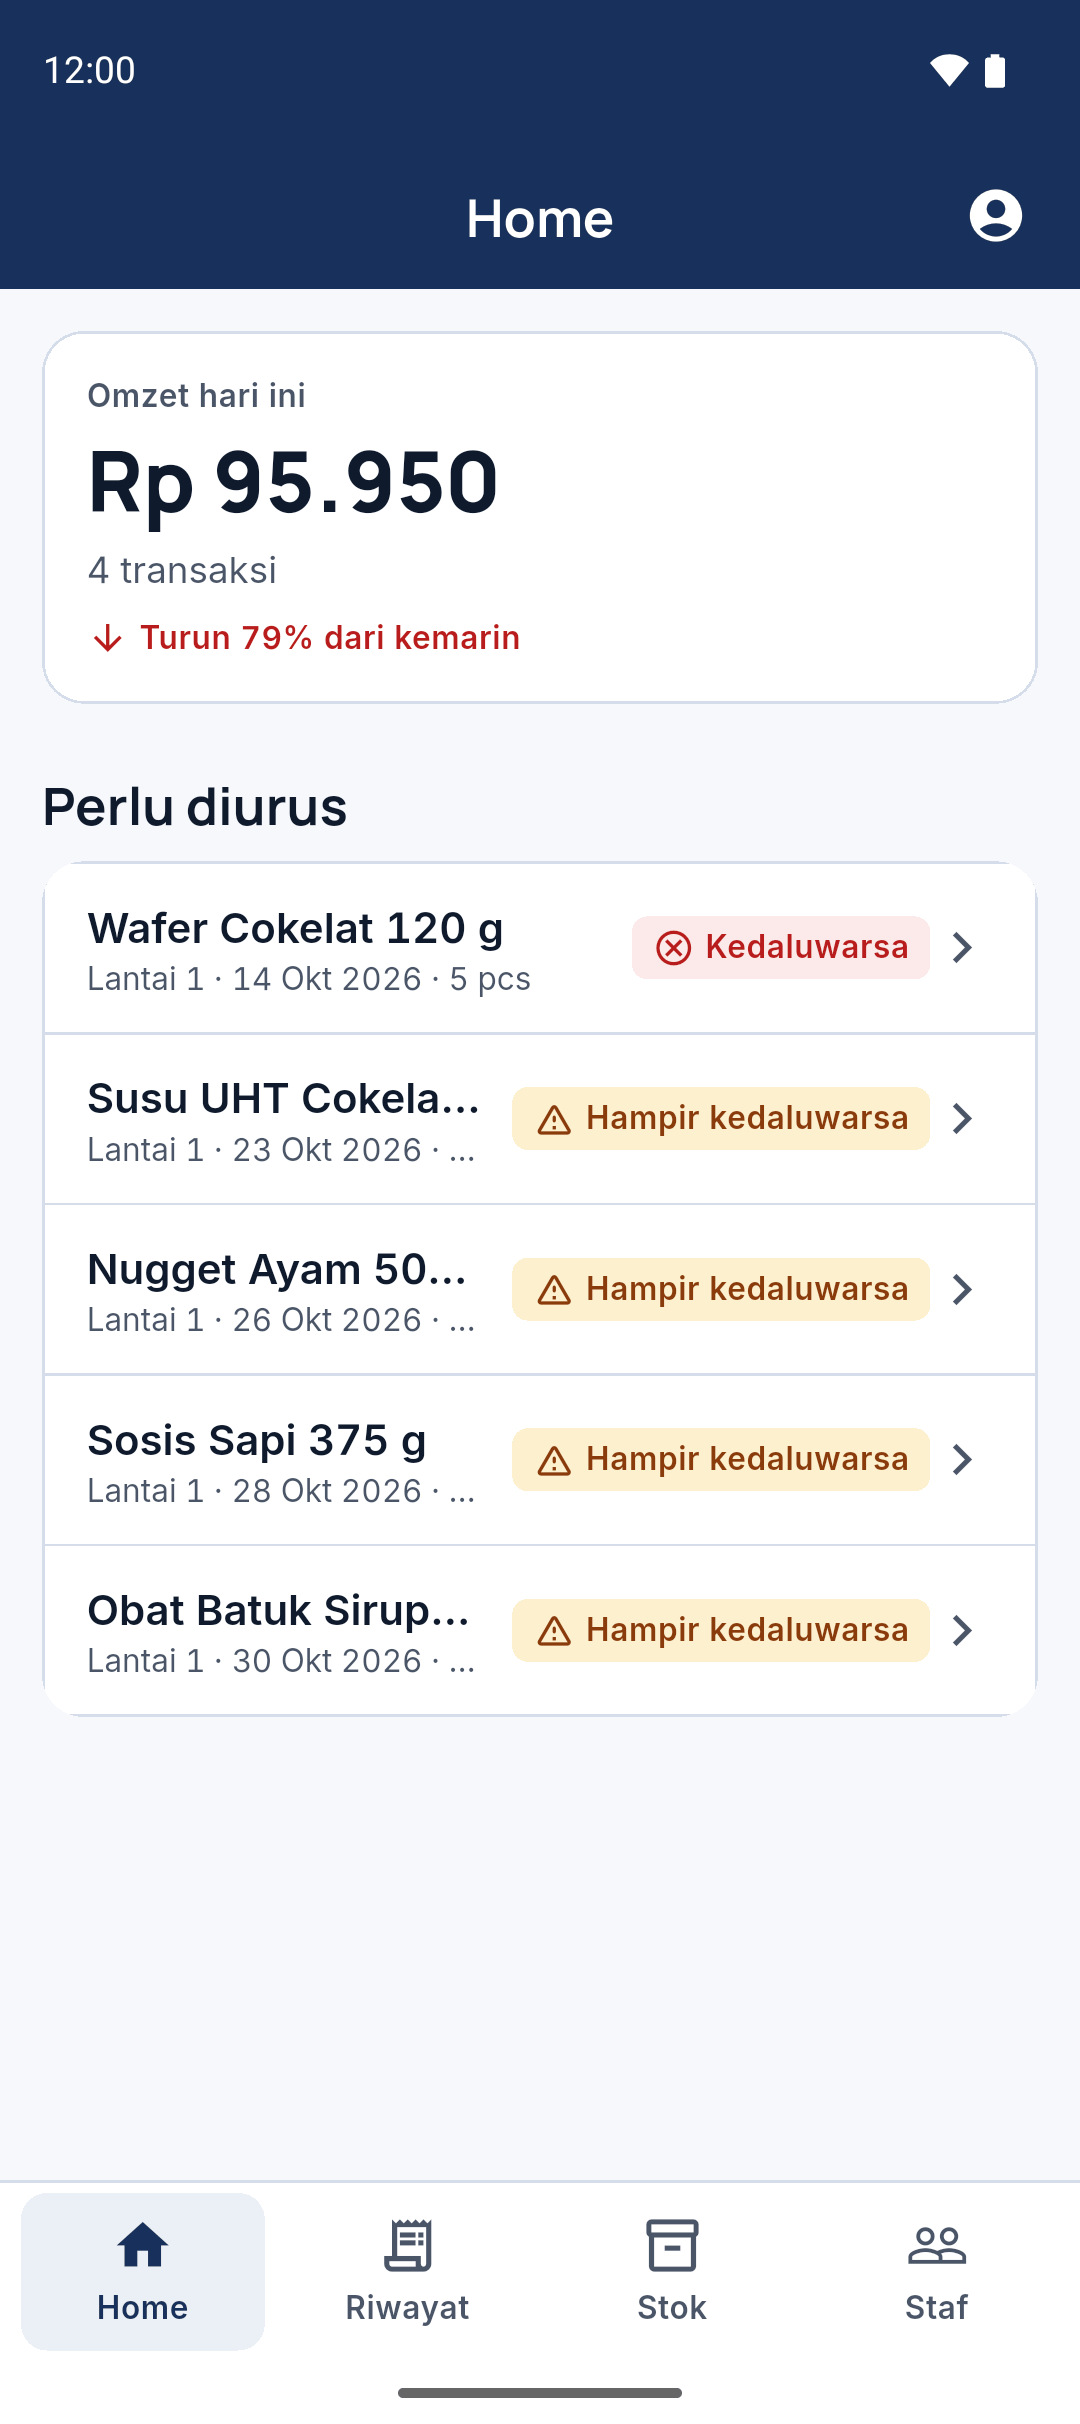
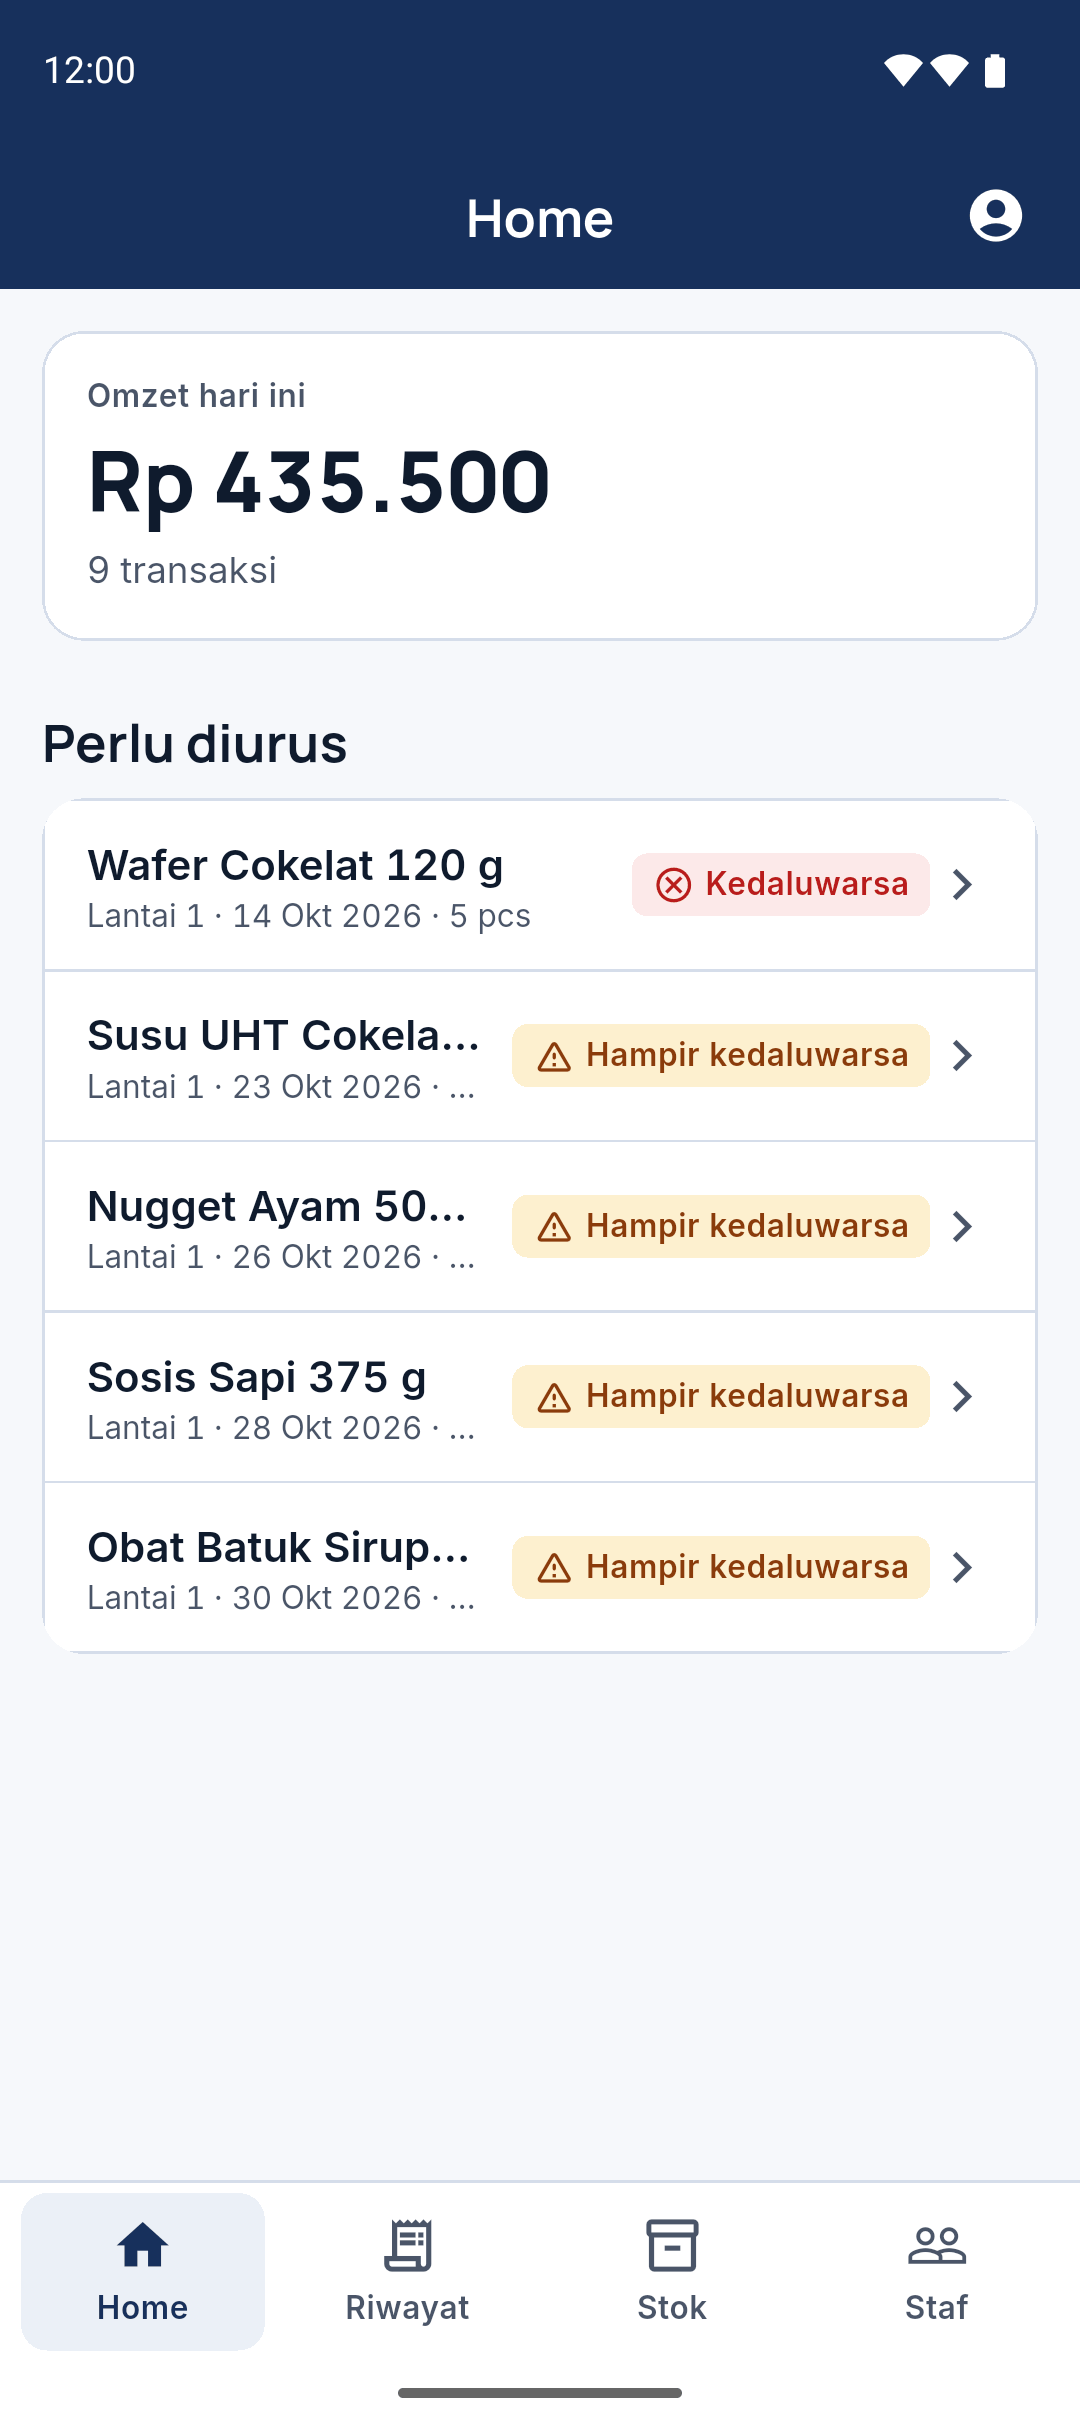
docs: perbarui screenshot Home dengan data hari ini
Ambil ulang Home owner mobile (Pixel_9) dan PC (1440x900 dpr 2): omzet
hari ini Rp 435.500 (9 transaksi). Tanpa checkout; data tidak berubah.

diff --git a/media/manifest.md b/media/manifest.md
@@ -64,7 +64,7 @@ Akun: `umum` = tanpa login; `kasir` = CASHIER_EMAIL (Kasir1); `gudang` = WAREHOU
 | 18-gudang-opname-selisih.png | Opname | hitung nyata 22 dari 24 (selisih), TIDAK disimpan | gudang |
 | 19-gudang-tulis-rugi-konfirmasi.png | Opname | dialog "Tulis rugi?", ditutup dengan Batal | gudang |
 | 20-gudang-pindah-lantai-terisi.png | Pindah stok | Lantai 2 -> Lantai 1, 6 pcs, TIDAK disimpan | gudang |
-| 21-owner-home.png | Home | omzet hari ini + "Perlu diurus" | owner |
+| 21-owner-home.png | Home | omzet hari ini Rp 435.500 (9 transaksi) + "Perlu diurus" | owner |
 | 22-owner-home-gelap.png | Home | tema gelap | owner |
 | 23-owner-detail-barang.png | Detail barang | dari "Perlu diurus" (harga & modal) | owner |
 | 24-owner-riwayat.png | Riwayat Transaksi | daftar | owner |
@@ -74,7 +74,7 @@ Akun: `umum` = tanpa login; `kasir` = CASHIER_EMAIL (Kasir1); `gudang` = WAREHOU
 | 28-owner-home-offline.png | Home | jaringan mati: "Koneksi terputus" + "Coba lagi" | owner |
 | 29-owner-home-pulih.png | Home | jaringan menyala lagi, "Coba lagi" -> data pulih | owner |
 | 30-pc-kasir-keranjang.png | Kasir PC | tabel keranjang 3 item (Rp 18.900) + panel bayar + "Siap scan" + bilah pintasan, tidak dibayar | kasir |
-| 31-pc-owner-home.png | Home PC | rel samping; omzet Rp 0 (belum ada transaksi hari itu) + "Perlu diurus" | owner |
+| 31-pc-owner-home.png | Home PC | rel samping; omzet hari ini Rp 435.500 (9 transaksi) + "Perlu diurus" | owner |
 | 32-pc-owner-staf.png | Kelola Staf PC | rel samping, apa adanya | owner |
 | checkout.mp4 / checkout.gif | Kasir | rekaman cari -> tambah -> scan kode -> uang cepat -> struk (22,7 dtk, mulai setelah login) | kasir |
 | contact-sheet.png | — | montase semua PNG berlabel nama file | — |
@@ -93,6 +93,8 @@ Akun: `umum` = tanpa login; `kasir` = CASHIER_EMAIL (Kasir1); `gudang` = WAREHOU
   tetapi mengompilasi ulang dart2js tiap jalan (~290 dtk) dan tidak selesai dalam batas 8 menit. Build statis
   cukup sekali, lalu capture 3 layar < 1 menit. Field/tombol dipilih lewat semantics Flutter (label), bukan koordinat.
 - PC hanya 3 layar (Kasir, Home owner, Staf); panel bayar terbuka (31 lama) dihapus karena kolom bayar sudah tampil di 30.
+- 21 dan 31 diambil ulang 19 Okt 2026 setelah data hari ini ditambahkan (sebelumnya omzet Rp 0); hanya kedua file itu
+  yang diganti (tes owner dan `web_static.py` juga memotret 22-27, 30, 32, tetapi file lama itu dipulihkan). Tanpa checkout.
 
 ## DATA DEMO DIUBAH
 
